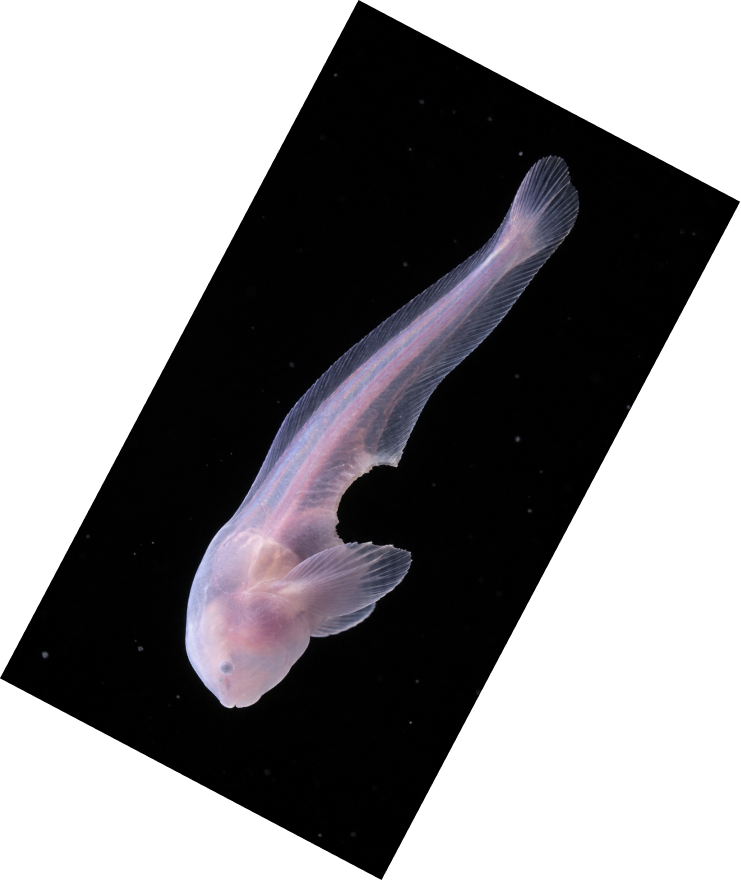
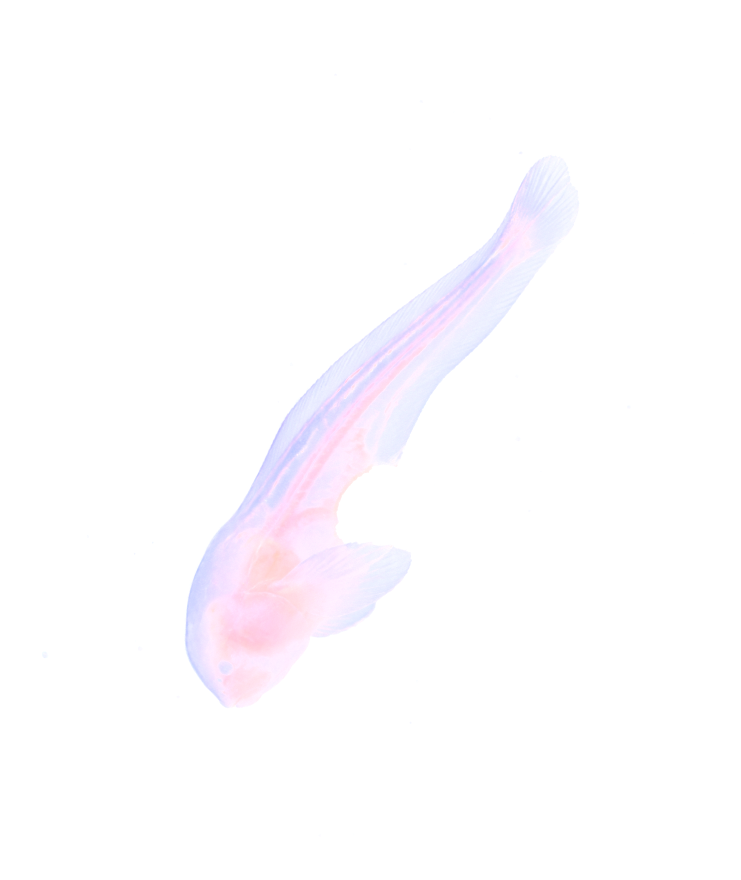
Show the whole footer fish, tail included
The fish now sits above the Work with us section so its tail shows as
it crosses into the lavender, its dark photo background is cut out, and
the footer is tall enough that the fish is no longer cut at the bottom.

diff --git a/styles.css b/styles.css
@@ -201,7 +201,8 @@ img { display: block; max-width: 100%; height: auto; }
 /* Footer */
 .footer {
   position: relative;
-  height: 297px;
+  z-index: 2;
+  height: 400px;
   padding: 90px 64px 0 89px;
   display: flex;
   justify-content: space-between;
@@ -215,7 +216,6 @@ img { display: block; max-width: 100%; height: auto; }
   left: 103px;
   top: -134px;
   width: 425px;
-  mix-blend-mode: screen;
   pointer-events: none;
 }
 .footer__name {
